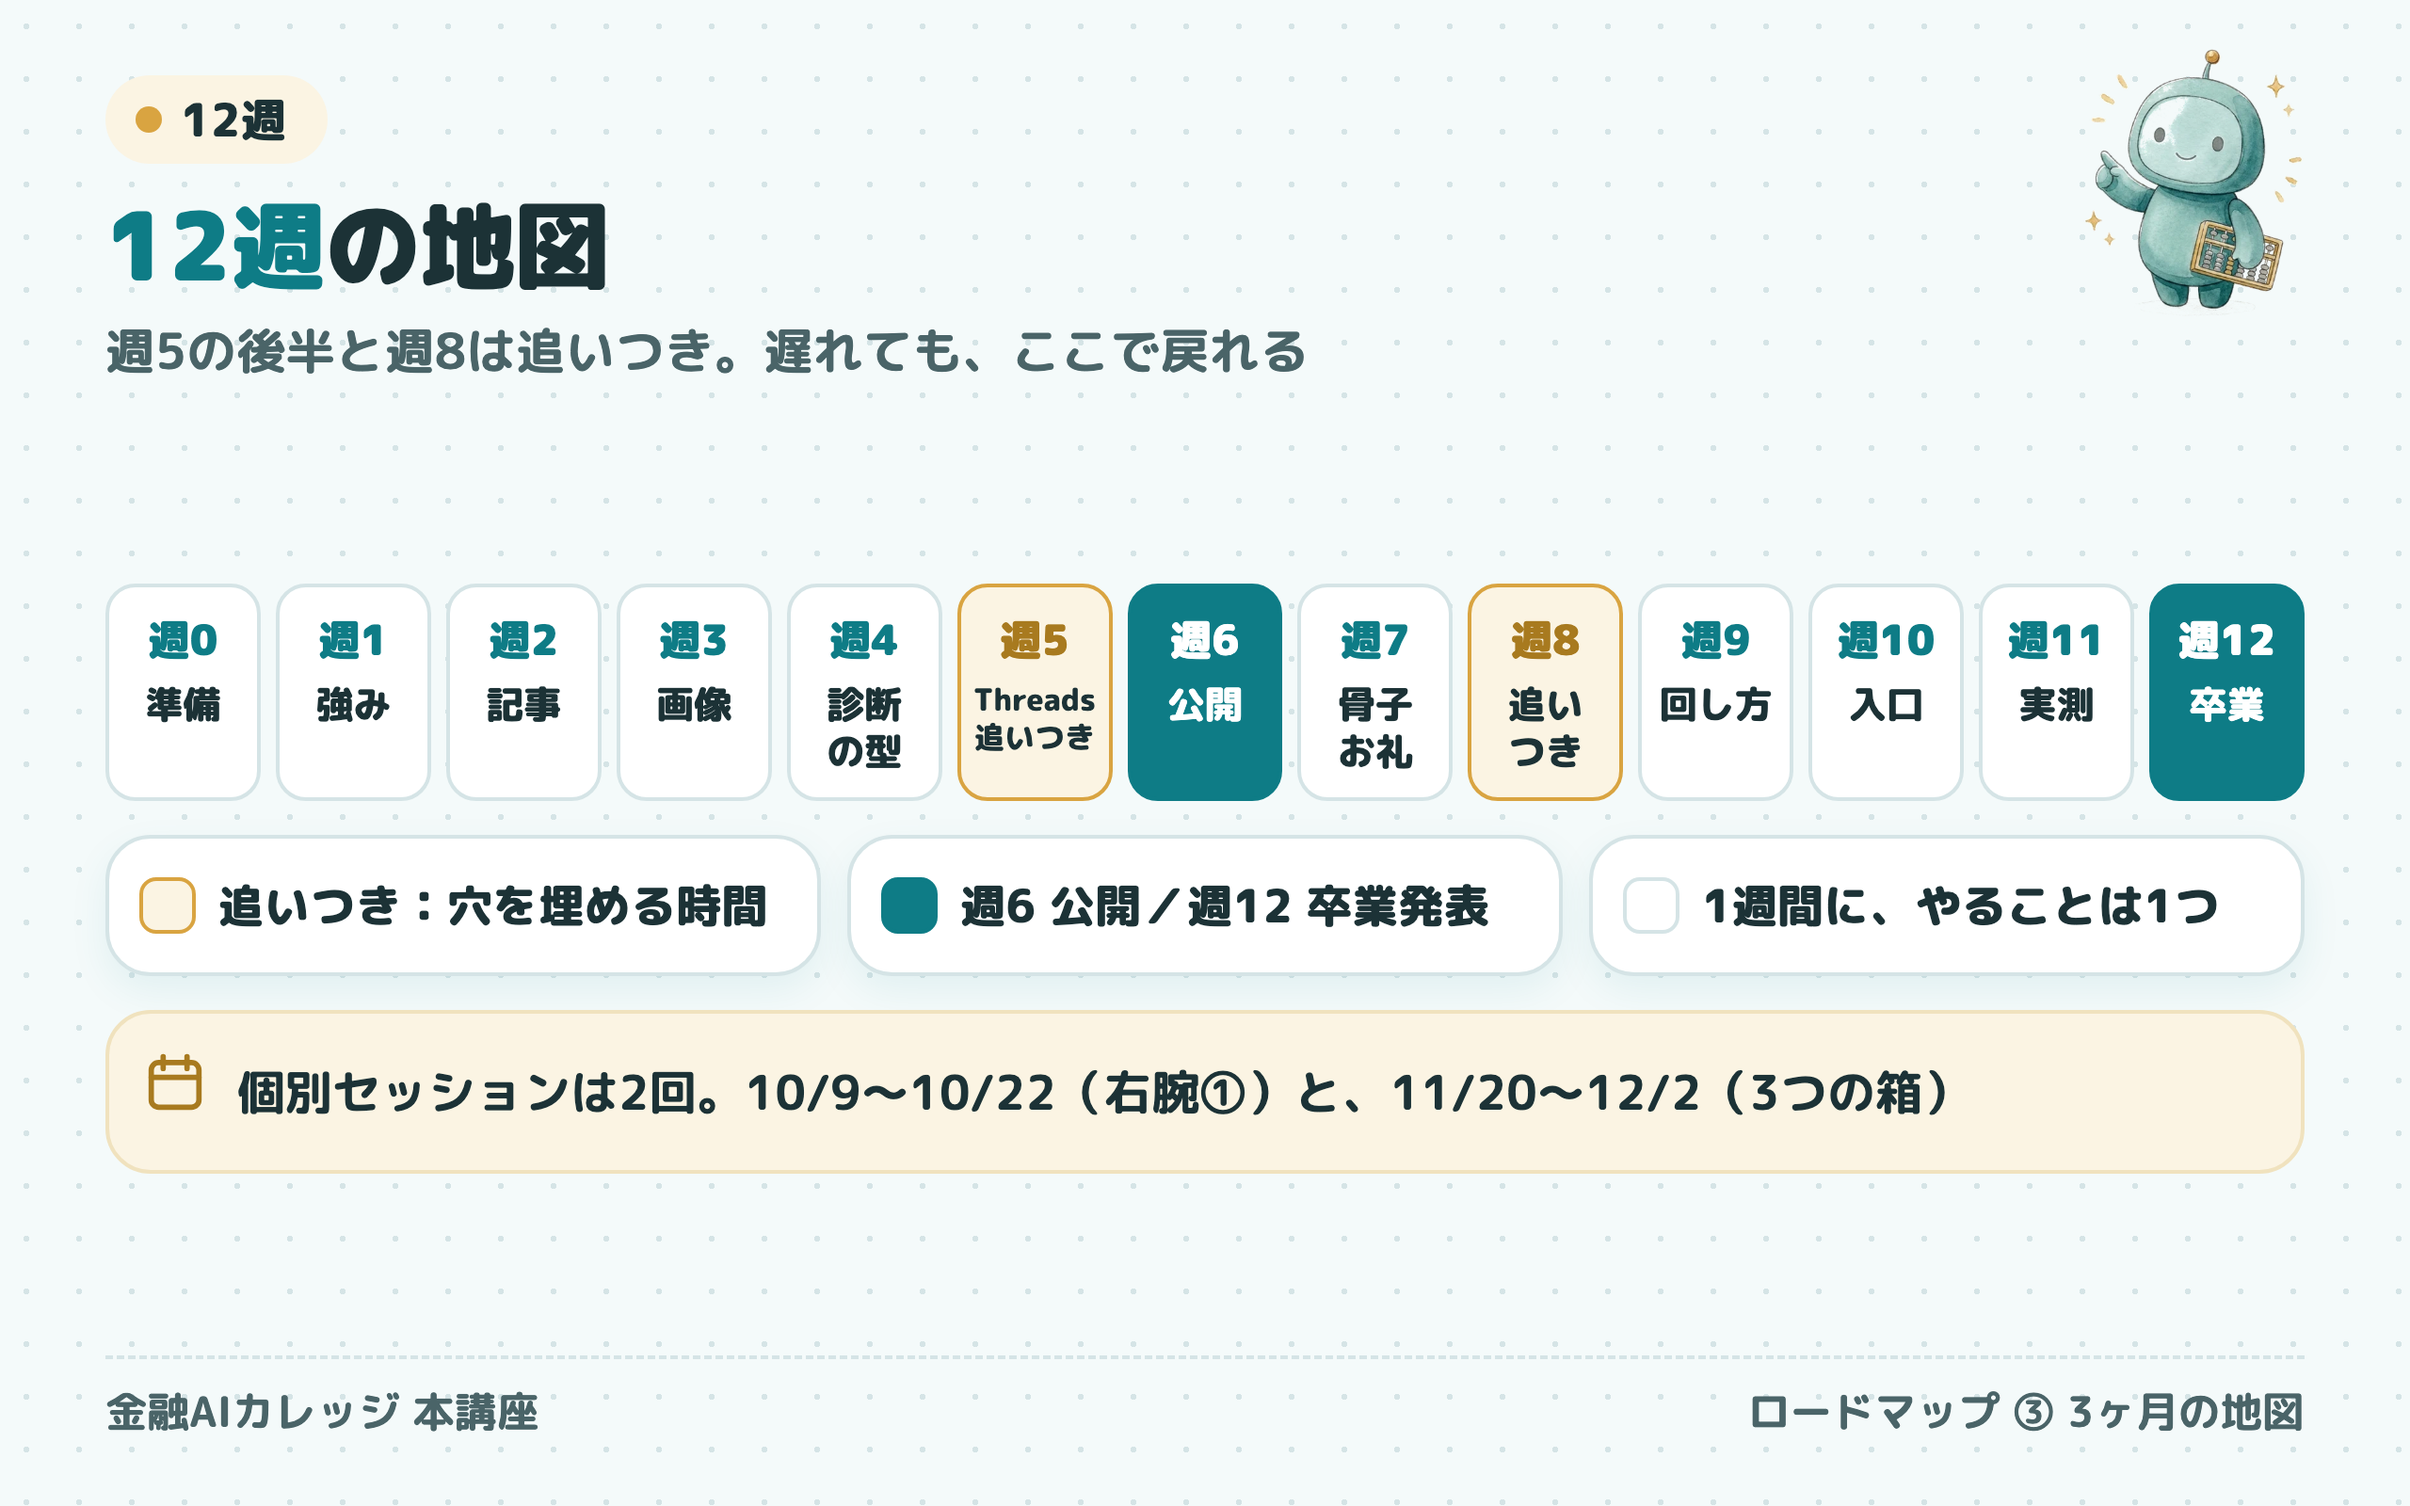
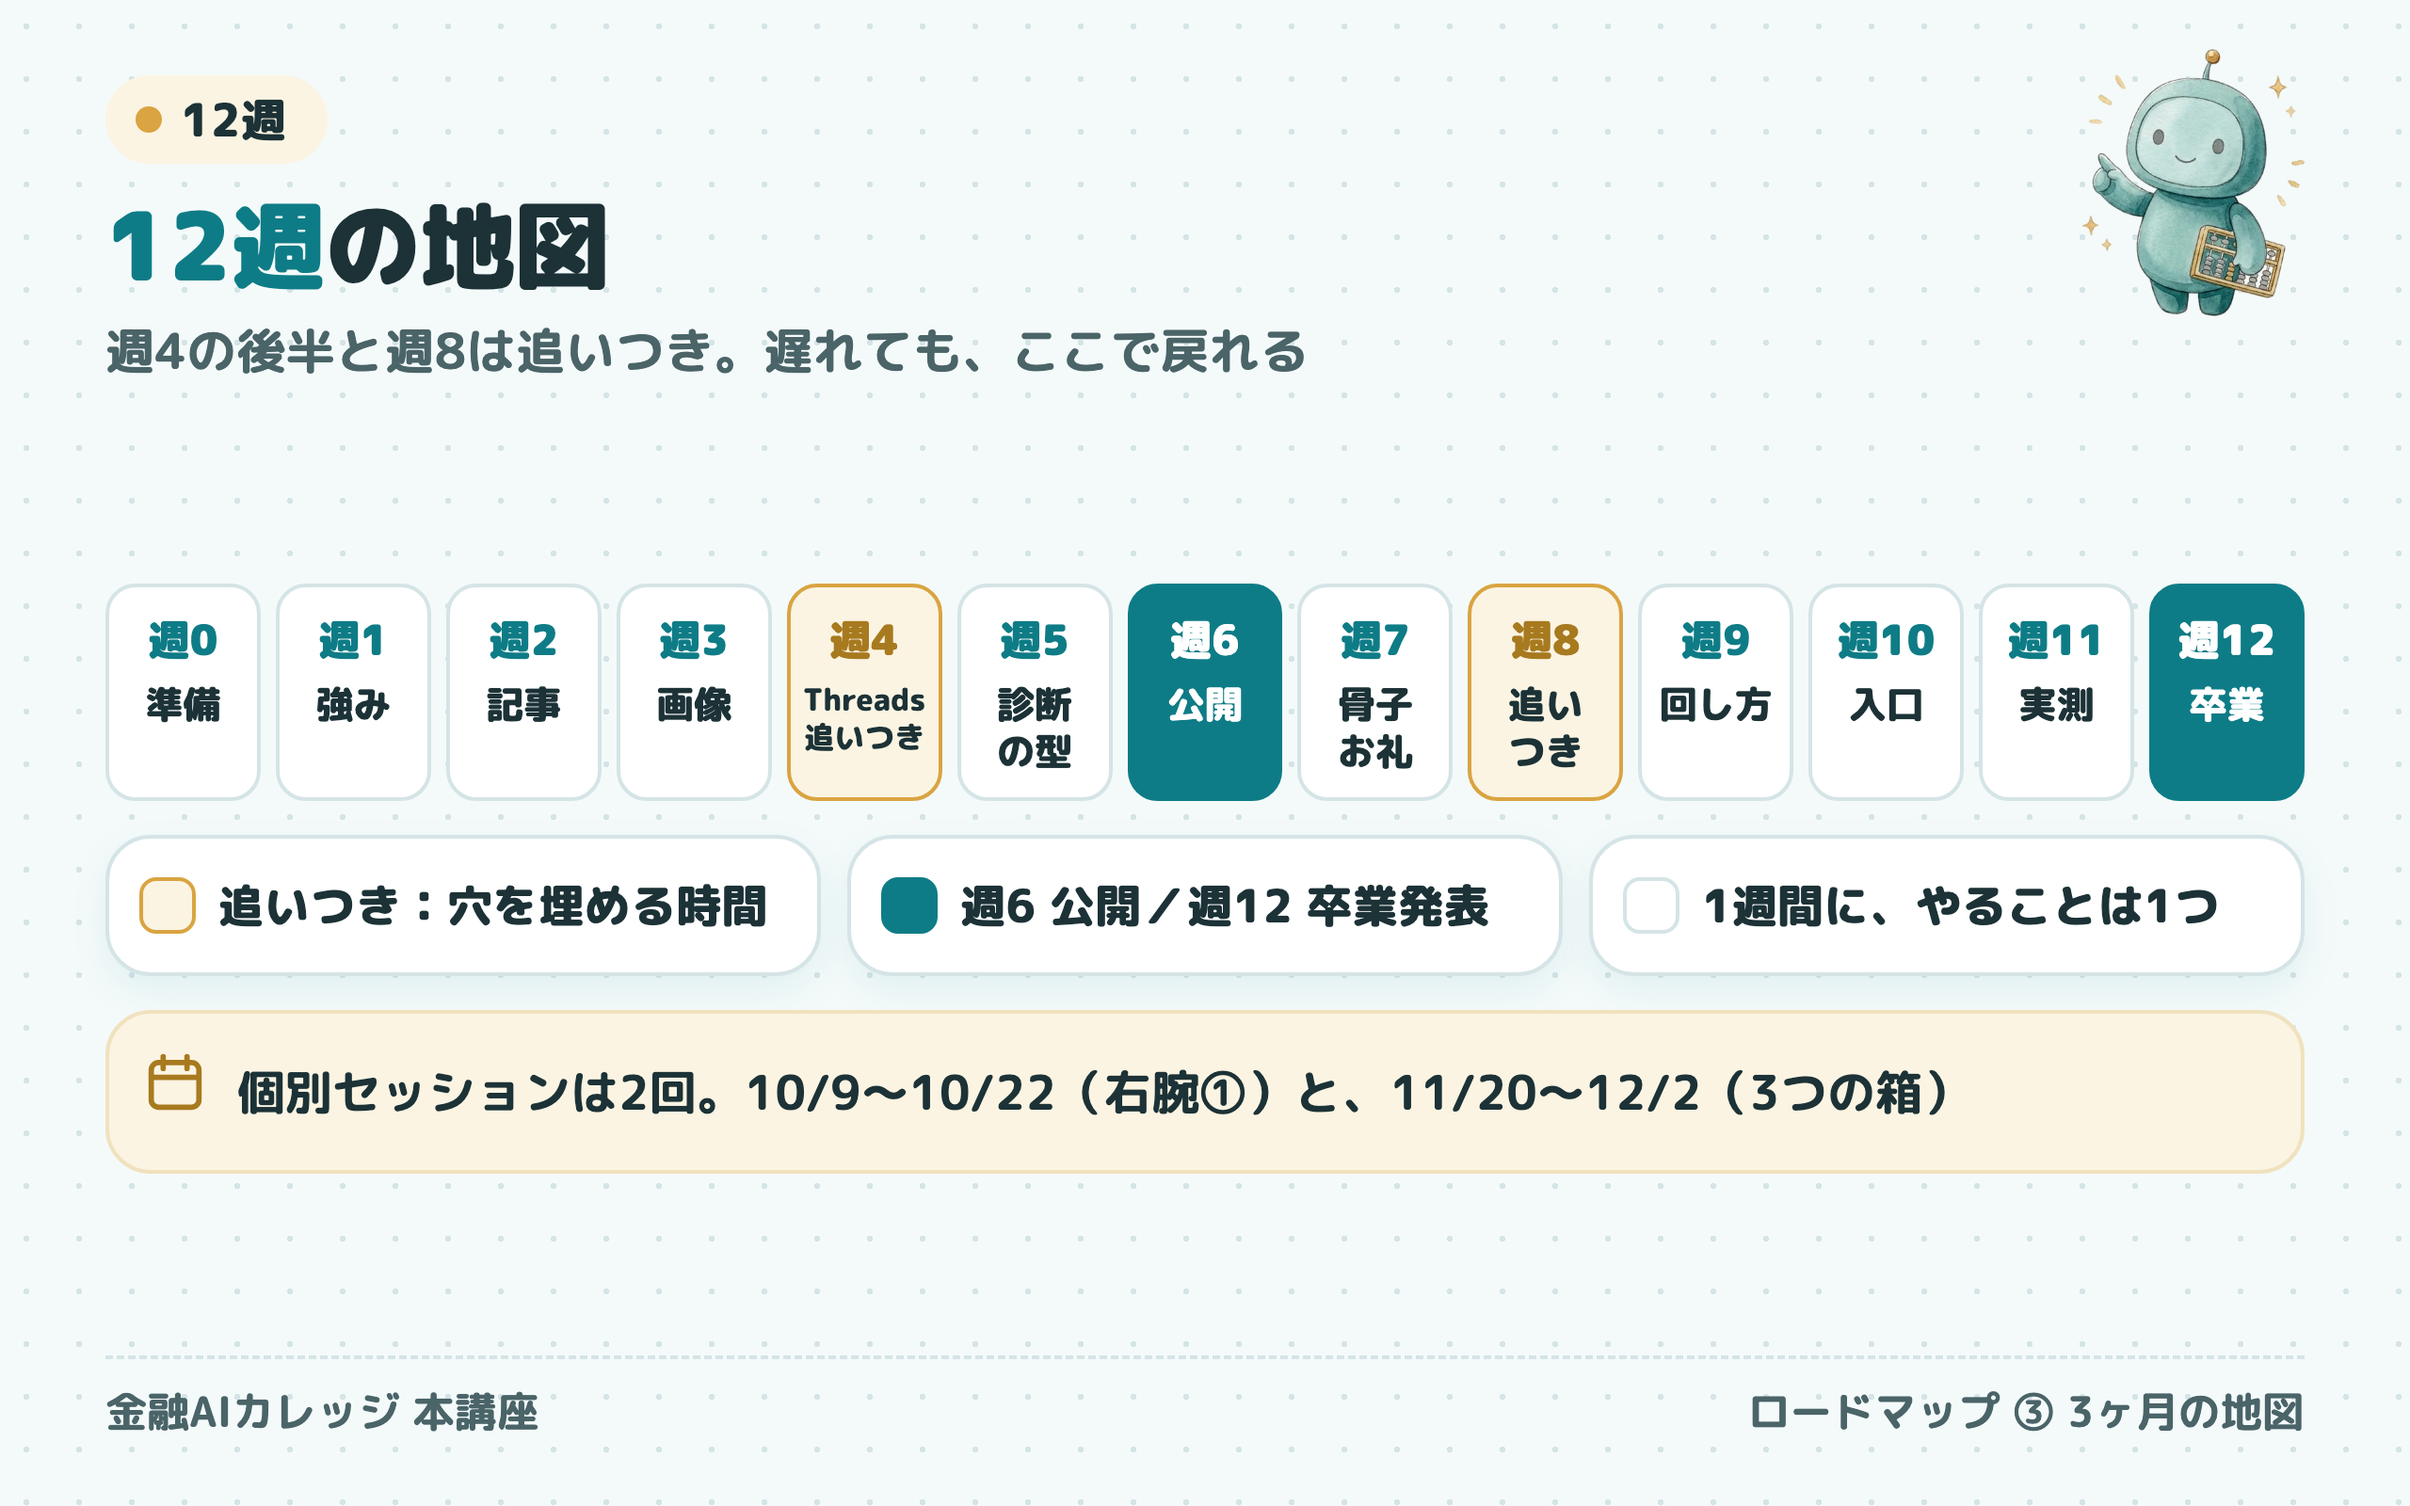
本講座: 週4Threads/週5診断の入れ替えに合わせた図解・発信のはじめかた3版の小直し

Changed region(s): [[0.3125, 0.375, 0.4688, 0.5312], [0.875, 0.0625, 0.9688, 0.2188], [0.0625, 0.2188, 0.0938, 0.25]]

diff --git a/honkoza/sns/index.html b/honkoza/sns/index.html
@@ -42,6 +42,7 @@ figcaption{font-size:15px;color:var(--sub);margin-top:6px}
 .future .big{font-size:24px;font-weight:900;color:var(--navy);line-height:1.5;margin:4px 0 10px}
 .future ul{margin:0;padding-left:1.2em}
 .future li{margin:4px 0;font-weight:700}
+.mex{margin:10px 0 0;font-weight:800;color:var(--navy);font-size:16px;background:var(--soft);border-radius:12px;padding:8px 12px}
 .mock{background:var(--white);border-radius:20px;padding:16px;margin-top:14px;border:2px solid var(--line)}
 .mtop{display:flex;gap:12px;align-items:center}
 .mav{flex:none;width:52px;height:52px;border-radius:50%;background:linear-gradient(135deg,var(--teal),var(--gold));color:#fff;font-weight:900;font-size:24px;display:flex;align-items:center;justify-content:center}
@@ -120,6 +121,8 @@ ol.steps li::before{content:counter(s);position:absolute;left:0;top:8px;width:32
 footer{font-size:14px;color:var(--sub);text-align:center;margin-top:30px}
 .fade.in{animation:rise .6s ease-out}
 @keyframes rise{from{opacity:.2;transform:translateY(14px)}to{opacity:1;transform:none}}
+@media (prefers-color-scheme: dark){:root:not([data-theme="light"]) .future .when,:root:not([data-theme="light"]) .t a,:root:not([data-theme="light"]) details>summary::before{color:#5CC8C0}}
+:root[data-theme="dark"] .future .when,:root[data-theme="dark"] .t a,:root[data-theme="dark"] details>summary::before{color:#5CC8C0}
 @media (prefers-color-scheme: dark){:root:not([data-theme="light"]) figure img,:root:not([data-theme="light"]) .hero img,:root:not([data-theme="light"]) .minipro img{filter:brightness(.88)}}
 @media (max-width:560px){.hero h1{font-size:28px}section{padding:22px 16px}.stat strong{font-size:22px}.two,.four{grid-template-columns:1fr}.step b{min-width:96px;font-size:15px}.minipro{flex-direction:column;align-items:stretch}.minipro img{width:100%;max-width:none}}
 @media print{body{background:#fff}details{break-inside:avoid}}
@@ -172,6 +175,7 @@ t.src=v;s=b.getElementsByTagName(e)[0];s.parentNode.insertBefore(t,s)}(window,do
 難しい言葉は使いません。まずは話してみてください。
 5問でわかる、わが家のお金のタイプ診断はこちら↓</div>
     <div class="mpost"><b>投稿案（1本目）</b>「通帳を見るのが、ちょっとこわい」そう話してくれたご夫婦が、3か月後に笑って言ったこと。</div>
+    <p class="mex">ほかの例：会社員の募集人なら「たなか｜定年後のお金を一緒に整える係」</p>
     <p class="src" style="margin:8px 0 0">見本です（名前・文は例）。あなたの「選ばれる理由」から、当日いっしょに作ります。</p>
   </div>
 </section>
@@ -186,7 +190,7 @@ t.src=v;s=b.getElementsByTagName(e)[0];s.parentNode.insertBefore(t,s)}(window,do
     <li data-k="1"><span class="box">✓</span><span class="t"><span>このページの「1」〜「3」をざっと読む</span><small>「当日やること」は29日に一緒に見ます。今は開かなくてOK</small></span><span class="min">5分</span></li>
     <li data-k="2"><span class="box">✓</span><span class="t"><span>Instagramのアカウントがあるか確かめる</span><small>あるなら、私用か仕事用か</small></span><span class="min">1分</span></li>
     <li data-k="3"><span class="box">✓</span><span class="t"><span>スマホに「Threads」と「Instagram」のアプリを入れる</span><small>アプリを入れるパスワードが分からなければ、当日でOK</small></span><span class="min">5分</span></li>
-    <li data-k="4"><span class="box">✓</span><span class="t"><span>会社のルールを確かめる相手に、すぐ下の質問を送っておく</span><small>会社員の方は会社に、代理店の方は保険会社か代理店の管理者に。返事は待たなくてOK。送る相手が分からなければ、相手を決めるだけでOK（29日に一緒に確認します）</small></span><span class="min">3分</span></li>
+    <li data-k="4"><span class="box">✓</span><span class="t"><span>会社のルールを確かめる相手に、すぐ下の質問を送っておく</span><small>会社員は会社に、代理店は保険会社か管理者に。<br>返事は待たなくてOK。<br>相手が分からなければ、決めるだけでOK。</small></span><span class="min">3分</span></li>
     <li data-k="5"><span class="box">✓</span><span class="t"><span>プロフィール画像の候補を1枚、スマホに保存する</span><small>自分の写真か、週3の画像</small></span><span class="min">3分</span></li>
     <li data-k="6"><span class="box">✓</span><span class="t"><span>週1の「選ばれる理由」3つを、スマホのメモに入れる</span><small><a href="https://kinyu-ai-college.vibely.site/courses/f894dc91-b003-45f0-9ce8-123ff4a66792/chapters/bfac9e69-cbfa-487b-a86f-be50befdae18" onclick="event.stopPropagation()">週1の章を開く</a></small></span><span class="min">2分</span></li>
     <li data-k="7"><span class="box">✓</span><span class="t"><span>私用と分けたい人だけ：仕事用のメールアドレスを控えておく</span></span><span class="min">1分</span></li>
